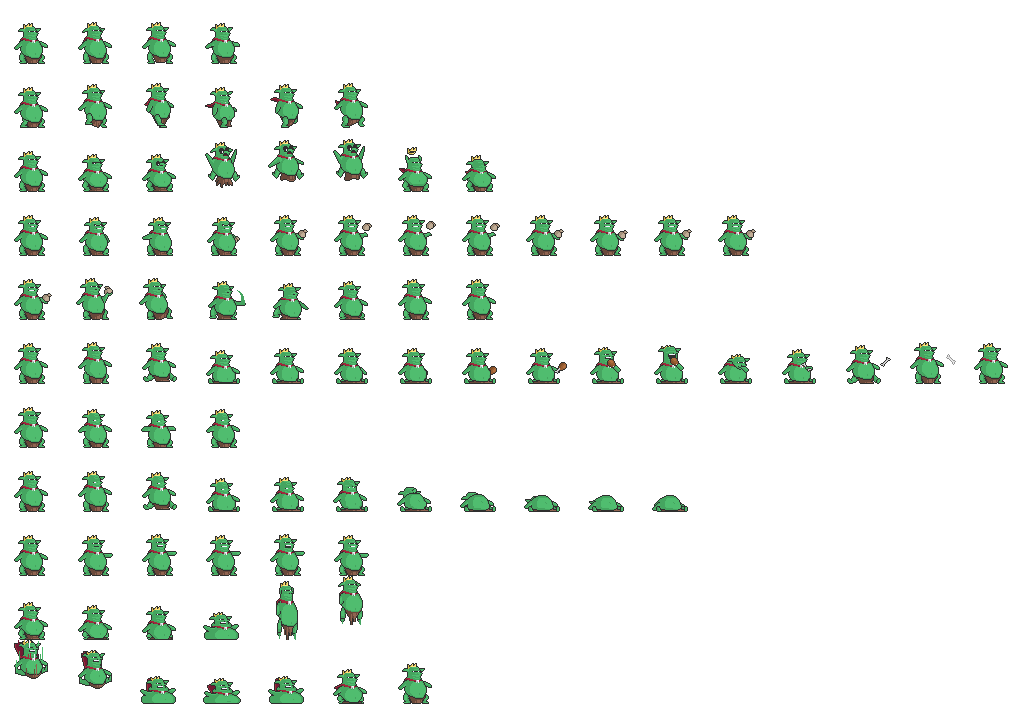
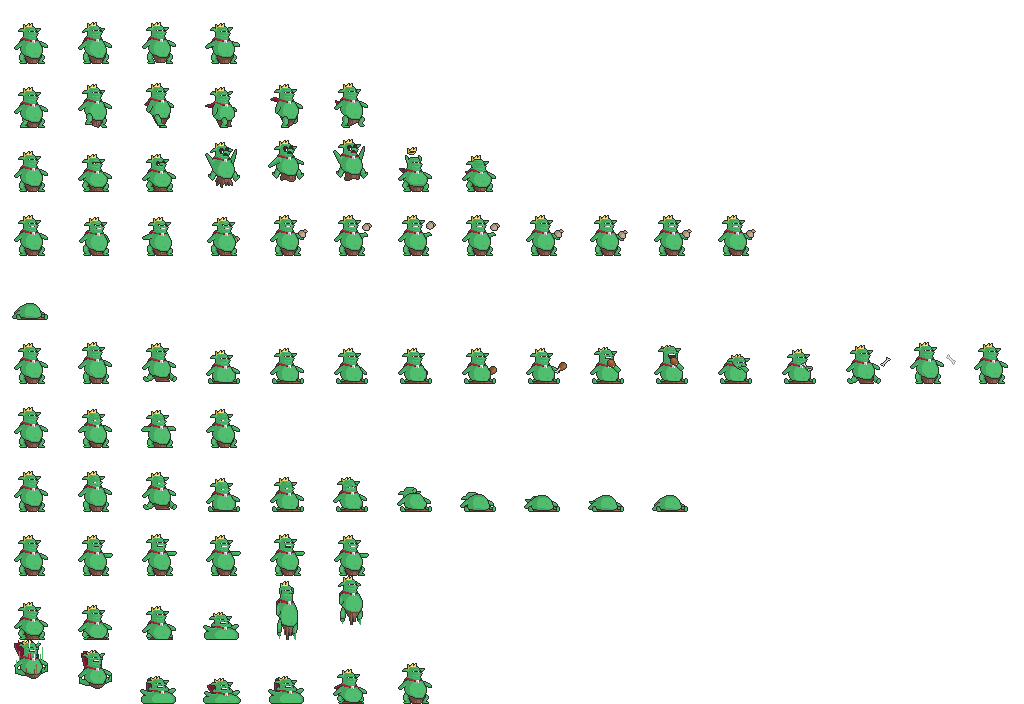
Add boss fight logic

Changed region(s): [[0.0, 0.375, 0.5, 0.4688]]

diff --git a/game-code/enemies.js b/game-code/enemies.js
@@ -153,17 +153,18 @@ function initializeEnemies(){
     for(i of imp) i.changeAni('stand');
 
 	boss = new Group();
-	boss.w = 10;
-	boss.h = 15;
+	boss.w = 15;
+	boss.h = 20;
 	boss.rotationLock = 'false';
 	boss.spriteSheet = bossImg;
 	boss.friction = 0;
 	boss.speed = 0.01;
-	boss.health  = 5;
+	boss.health  = 2;
 	boss.anis.w = 64;
 	boss.anis.h = 64;
+	boss.scale = 2;
 	boss.anis.offset.x = 0;
-	boss.anis.offset.y = 0;
+	boss.anis.offset.y = -5.5;
 	boss.addAnis({
 		stand: { row: 0, frames: 3, frameDelay: 10 },
 		move: { row: 1, frames: 5, frameDelay: 10 },
@@ -171,7 +172,7 @@ function initializeEnemies(){
 		bounceU: {row: 9, frames: 5, frameDelay: 10},
 		bounceD: {row: 10, frames: 6, frameDelay: 10},
         death: { row: 7, frames: 10, frameDelay: 10},
-        dead: { row: 20, frames: 0}
+        dead: { row: 4, frames: 1}
 	})
     for(b of boss) b.changeAni('stand');
 
@@ -203,6 +204,83 @@ function enemyProximity() {
 			}else{		//Walking enemies move only on the X axis
 				e.moveTowards(activePlayer.x - (20*e.dir),enemyCurrentY, e.groups[2].speed)	
 			}
+		}
+	}
+}
+
+function initializeBoss(){
+	for(sp of bossSpawner){		
+		goblinKing = new boss.Sprite(sp.position.x, sp.position.y)
+		goblinKing.mirror.x = true;
+		bossAttackArea = new Sprite(goblinKing.x-50,goblinKing.y,75,4);
+		bossAttackArea.scale = 2;
+		bossAttackArea.overlaps(goblinKing);
+		bossAttackArea.overlaps(lizard);
+		bossAttackArea.visible = false;
+		bossAttackArea.canDmg = false;
+		bossAttackArea.spriteSheet = bossAttackAreaImg;
+		bossAttackArea.anis.w = 64;
+		bossAttackArea.anis.h = 64;
+		bossAttackArea.anis.offset.x = -5;
+		bossAttackArea.addAnis({
+			active: {row: 0, frames: 12, frameDelay: 5},
+			inactive: {row:10, frames:0}
+		})
+		bossAttackArea.changeAni('inactive')
+   }
+}
+let bossBody, deathTrigger = false;
+async function bossAI(){
+	if(goblinKing.health>0){
+		bossAttack();
+	}else if(!deathTrigger){
+		deathTrigger = true;
+		bossAttackArea.remove();
+		bossBody = new boss.Sprite(goblinKing.x, goblinKing.y)
+		bossBody.overlaps(goblinKing);
+		bossBody.overlaps(lizard);
+		goblinKing.remove();
+		await bossBody.changeAni(['death','dead']);
+	}
+}
+let bossAttackAreaTimer, canBossAttack = true, bossPrevFrame;
+async function bossAttack(){
+	if(canBossAttack){
+		canBossAttack = false
+		bossPrevFrame = frameCount;
+		await goblinKing.changeAni(['bounceU','bounceD']);
+		bossAttackArea.canDmg = true;
+		//bossAttackArea = new Sprite(b.x,b.y,100,8);
+		bossAttackArea.visible = true;
+		bossAttackArea.changeAni('active');
+		await goblinKing.changeAni('stand');
+		if(abs(bossPrevFrame-frameCount)>80){
+			bossAttackArea.visible = false;
+			bossAttackArea.canDmg = false;
+			bossAttackArea.changeAni('inactive')
+		}
+		if (bossAttackArea.overlapping(lizard)) damage();
+	}
+	if(abs(bossPrevFrame-frameCount)>350){
+		canBossAttack = true
+	}	
+
+	//bossAttackAreaTimer = setInterval(()=>{
+	//	//bossAttackArea.remove();
+//
+	//	clearInterval(bossAttackAreaTimer);
+	//	bossAttackAreaTimer = undefined;
+	//}, 5000)
+}
+
+async function damageBoss(area){
+	if(!bossAttackArea.canDmg){
+		if(abs(goblinKing.x - area.x) < 24 && abs(goblinKing.y - area.y) < 24){
+			canDamage = false;
+			defeatSound.play();
+			await goblinKing.changeAni(['damage','stand'])
+			goblinKing.health--
+			canDamage = true;
 		}
 	}
 }

diff --git a/game-code/sketch.js b/game-code/sketch.js
@@ -1,6 +1,5 @@
 //Set Variables
 let gameState = "runGame";
-
 let mapGravity = 10;
 
 //Level Creation
@@ -49,8 +48,8 @@ let prevFrame = 0
 let chasing = false;
 
 //Sprites and Assets
-let hero, partner, witch, lizard, portal, hex, frog, enemies, fly, leaf, bat, cobra, ghoul, imp, boss;
-let heroImg, partnerImg, witchImg, lizardImg, portalImg, hexImg, frogImg, cloudImg, flyImg, leafImg, batImg, cobraImg, ghoulImg, impImg, bossImg;
+let hero, partner, witch, lizard, portal, hex, frog, enemies, fly, leaf, bat, cobra, ghoul, imp, boss, goblinKing, bossAttackArea;
+let heroImg, partnerImg, witchImg, lizardImg, portalImg, hexImg, frogImg, cloudImg, flyImg, leafImg, batImg, cobraImg, ghoulImg, impImg, bossImg,bossAttackAreaImg;
 
 let enemyGroup = {e1: undefined, e2: undefined}
 
@@ -243,7 +242,8 @@ function preload() {
 	cobraImg = loadImage('./assets/enemies/mountain/cobra.png');
 	ghoulImg = loadImage('./assets/enemies/castle/ghoul.png');
 	impImg = loadImage('./assets/enemies/castle/imp.png');
-	bossImg = loadImage('./assets/boss/goblin.png')
+	bossImg = loadImage('./assets/boss/goblin.png');
+	bossAttackAreaImg = loadImage('./assets/boss/bossAttack.png');
 
 
 	forestMusic = loadSound('./assets/sound/forest.ogg');
@@ -330,7 +330,12 @@ function update() {
 		}
 
 		//Debug Mode
-		gameDebug(showSprites = true);		
+		gameDebug(showSprites = true);
+
+		if (currentMap == 'bossRoom'){
+			lizard.overlaps(goblinKing)
+			bossAI();
+		}		
 	}
 }
 
@@ -453,7 +458,11 @@ async function atttack(character) {
 	await character.changeAni('slash'); //plays attack animation
 	character.changeAni('stand');       //
 	changeState('IDLE')
-	await attackAreaProximity(attackArea);      //
+	if(!(currentMap == 'bossRoom')){
+		await attackAreaProximity(attackArea);
+	}else{
+		await damageBoss(attackArea);
+	}
 	attackArea.remove(); //removes sprite after attackends
 	attackTimer = setInterval(()=>{
 		canAttack = true
@@ -592,7 +601,7 @@ function damage() {
 	damageSound.play();
 	shake(lizard);
 	console.log(frameCount-prevFrame);
-	ui[lizard.health-1].changeAni('empty');
+	//ui[lizard.health-1].changeAni('empty');
 	lizard.health--;
 	if(lizard.health==0) death();
 	damageTimer = setInterval(()=>{

diff --git a/game-code/camera.js b/game-code/camera.js
@@ -41,12 +41,15 @@ function canvasSetup() {
       case 'castle':
         level = castleBackground;
         break;
+      case 'bossRoom':
+        level = bossBackground;
+        break;
     }
     for (b of level){
       image(b.img, int(b.x), 0, canvas.w, canvas.h);
       image(b.img, int(b.x)+ width, 0, canvas.w, canvas.h); // draw background to the right of the base one || int() resolves seams between 
       image(b.img, int(b.x)- width, 0, canvas.w, canvas.h); // draw background to the left of the base one  || the instances of the background
-      if (activePlayer.currentState == activePlayer.states.WALK && currentMap != "entrance") b.x -= b.speed*direction+1*direction;
+      if (activePlayer.currentState == activePlayer.states.WALK && currentMap != "entrance" && currentMap != 'bossRoom') b.x -= b.speed*direction+1*direction;
       if (b.x < -width) b.x = 0;
       }
   }

diff --git a/game-code/levels.js b/game-code/levels.js
@@ -72,7 +72,7 @@ function changeLevel(){
         if(currentLevel>0) resetplayer(resetCamera = true);
         currentLevel++;
         console.log(currentLevel);
-        
+        if(currentMap=='bossRoom') initializeBoss();
 	    spawnEnemies(enemyGroup.e1, enemyGroup.e2);
 }
 
@@ -302,7 +302,7 @@ function preloadLevels() {
 "b.....................b..................................",
 "b.....................b..................................",
 "b.....................b..................................",
-"b.......S.............b..................................",
+"b.......S.........B...b..................................",
 "iiiiiiiiiiiiiiiiiiiiiiiiiiiiiiiiiiiiiiiiiiiiiiiiiiiiiiiii",
 ],
         map: "bossRoom",

diff --git a/game-code/enviroment.js b/game-code/enviroment.js
@@ -258,6 +258,15 @@ function setEnviroment(tileSet){
 		invBlock.tile = 'i';
 		invBlock.visible = false;
 
+		bossSpawner = new Group();
+		bossSpawner.layer = 3;
+		bossSpawner.collider = 'static';
+		bossSpawner.w = 1;
+		bossSpawner.h = 1;
+		bossSpawner.tile = 'B';
+		bossSpawner.visible = false;
+		bossSpawner.overlaps(allSprites);
+
 }
 //Updates the tileset image
 //All the tiles have to be reset with addAni()

diff --git a/game-code/cutscenes.js b/game-code/cutscenes.js
@@ -92,3 +92,8 @@ async function introCutscene(){
 	
 	
 }
+
+
+function endCutscene(){
+	
+}

diff --git a/TODO.md b/TODO.md
@@ -10,6 +10,8 @@
 - []Fix UI
 - [x]Coins overlap enemies
 - [x]Fix boss room background
-- []New boss fight game state?
+- [x]Add boss fight logic
+- [] Finish cutscenes
+- [] Tutorial level
 
 - []JsDoc Documentation?
